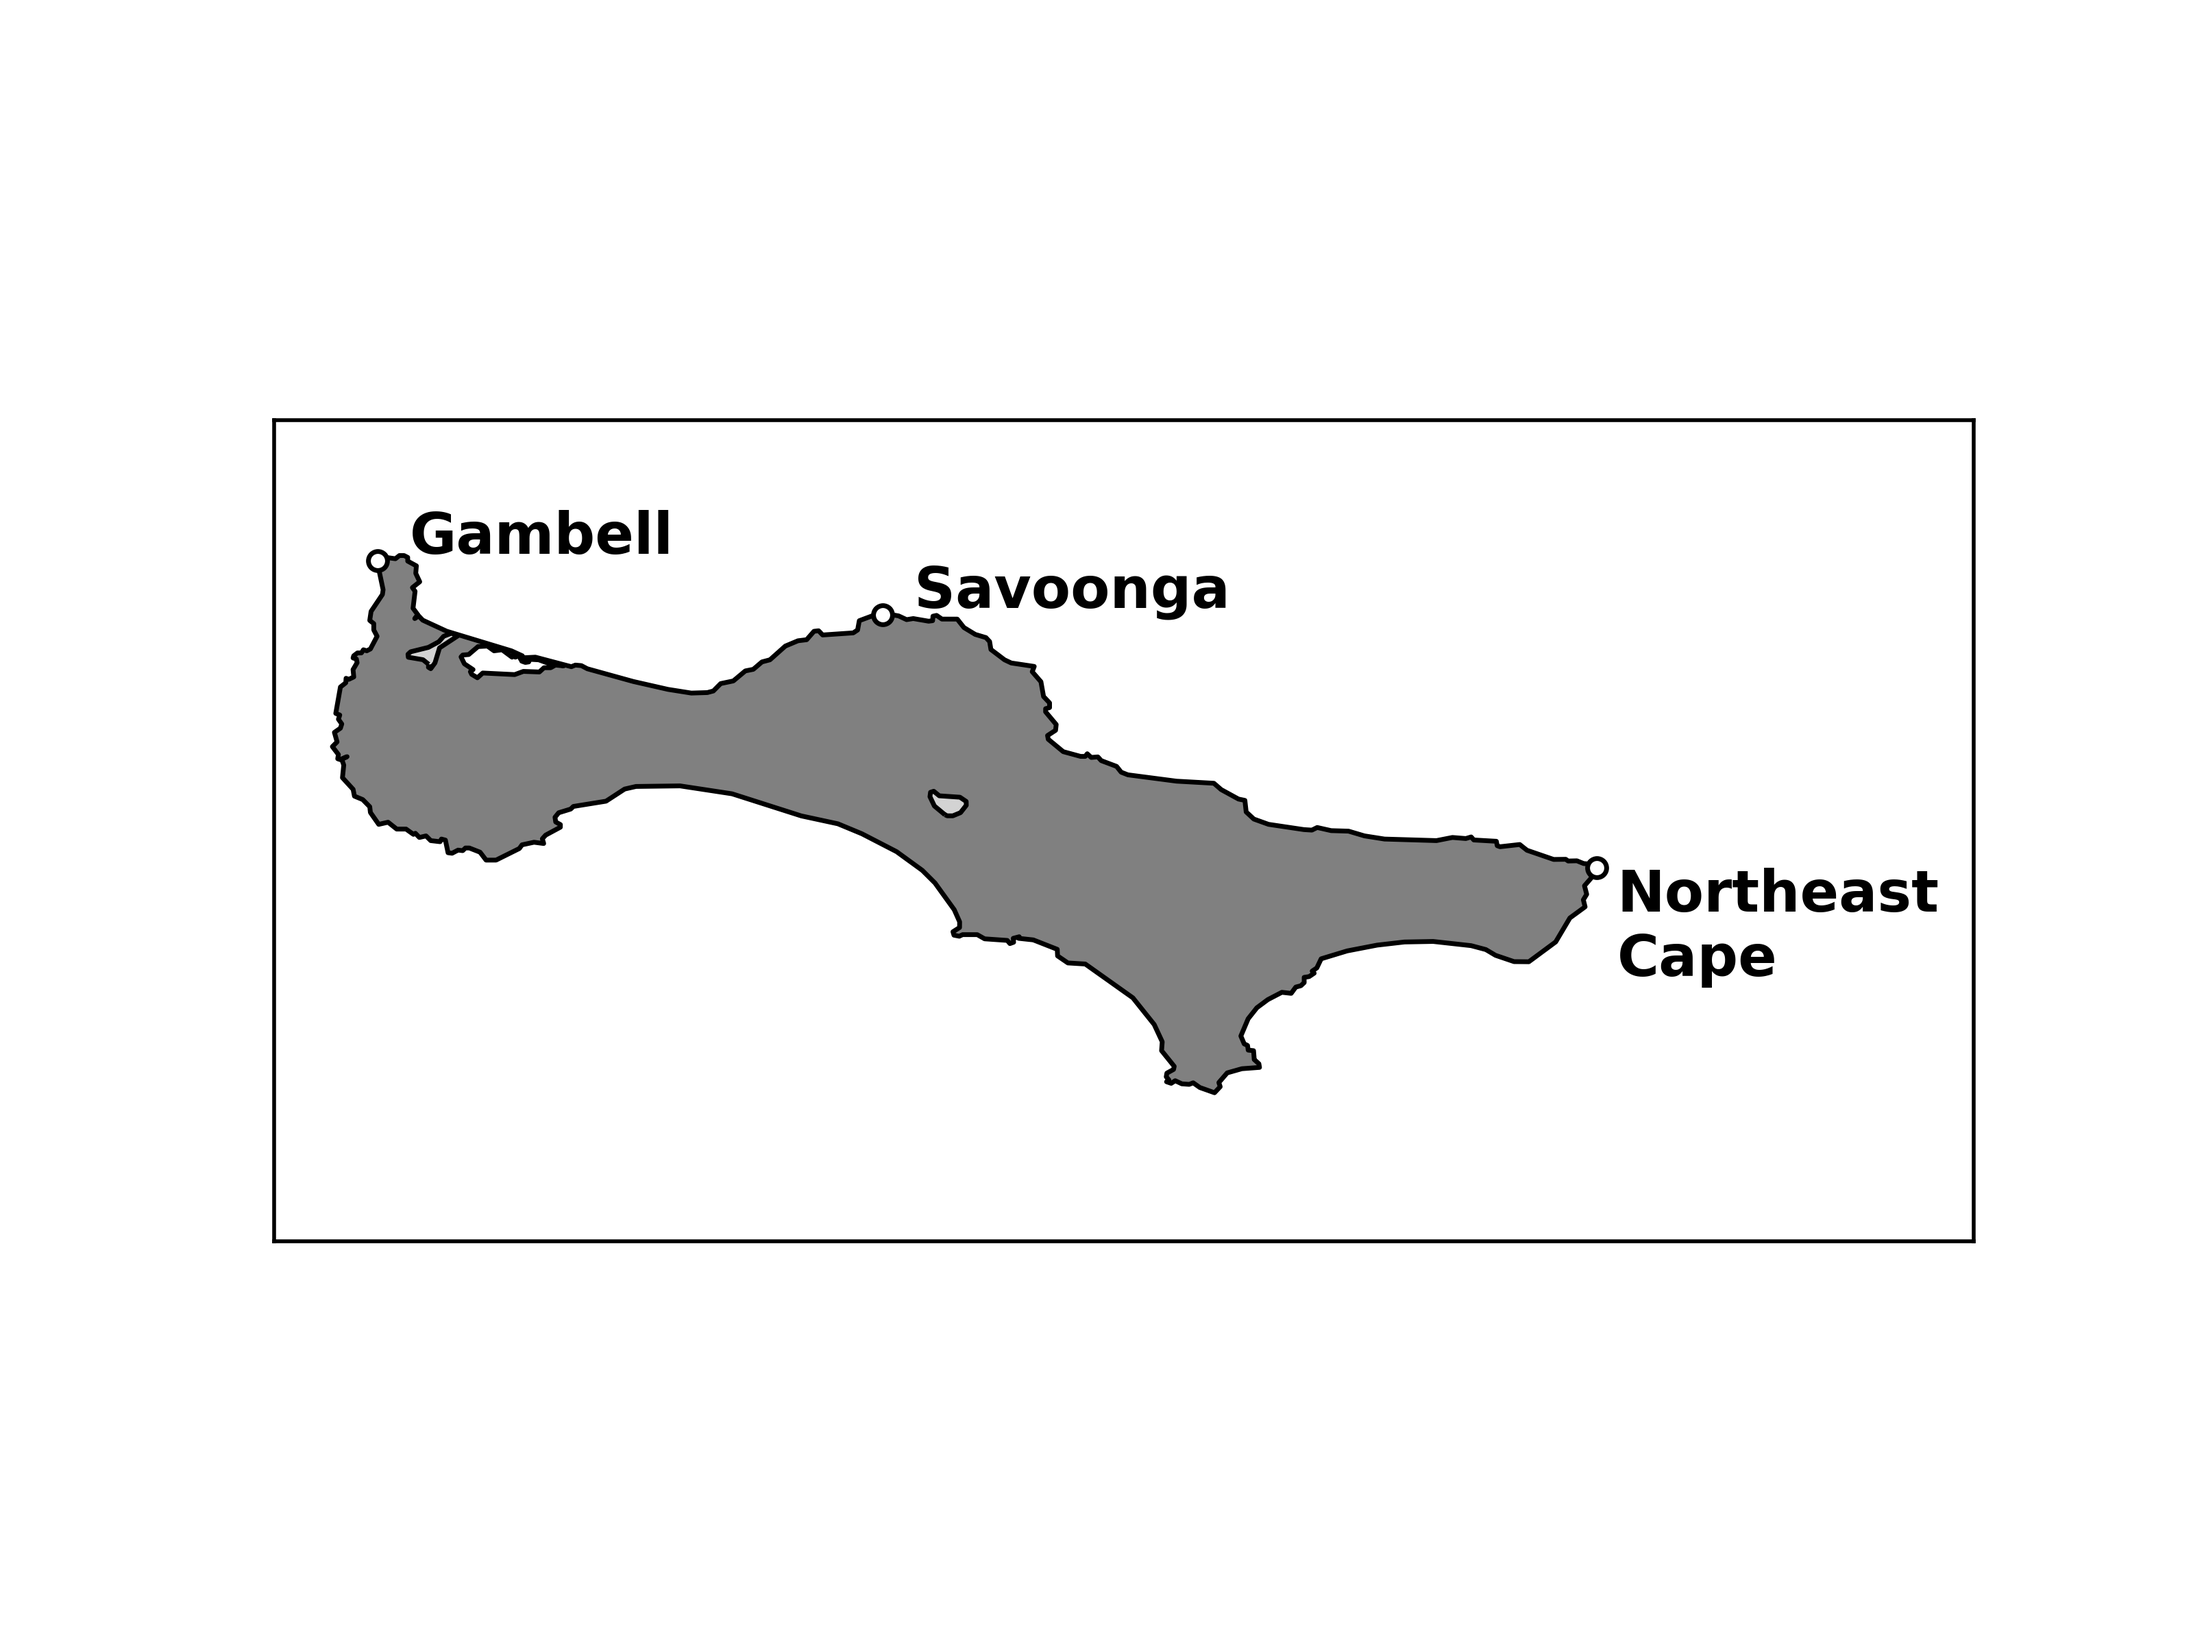
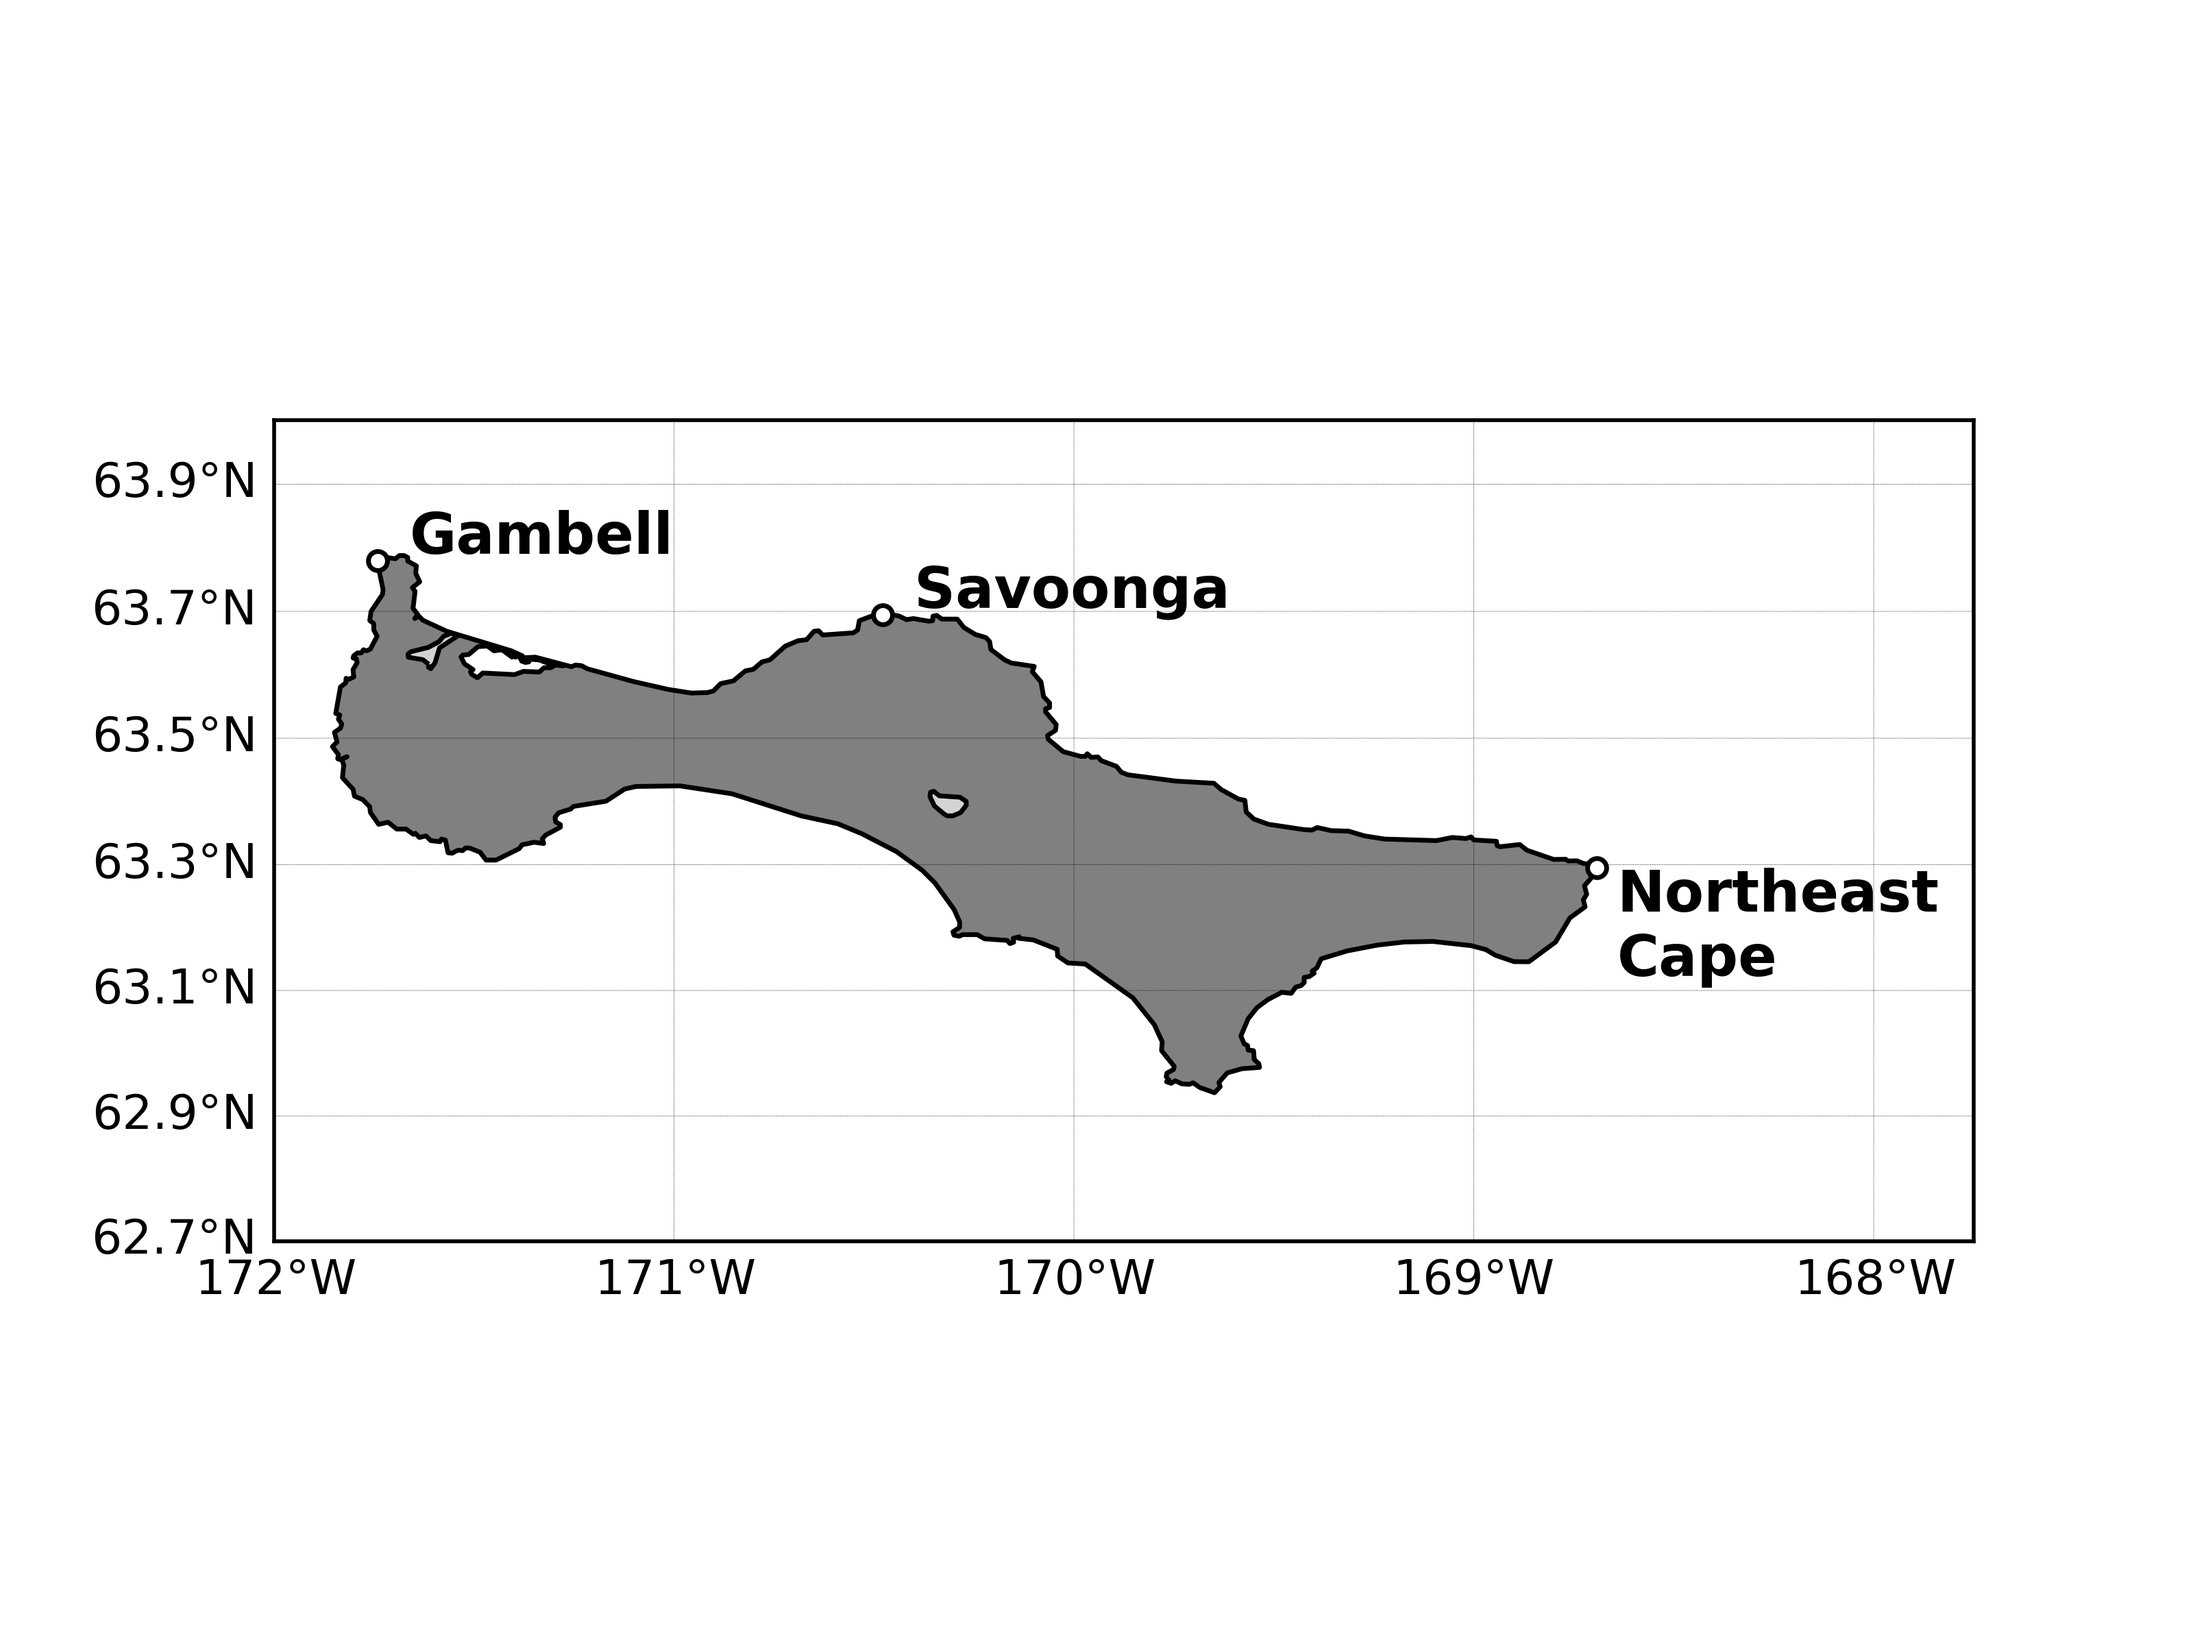
improved generalized script

diff --git a/generalized_map.py b/generalized_map.py
@@ -11,8 +11,27 @@ m=Basemap(llcrnrlon=-172, llcrnrlat=62.7, # corner 1
 
 # Continent in grey (change colors using hex codes if you want them to differ)
 m.fillcontinents(color='#808080', lake_color='#d3d3d3')
+# m.etopo(scale=3) # If you want color / topography, try this and comment out above line. 
+# In that case you may need to change the scale to increase resolution.  Just screw around
+# with it and see what works.
 m.drawcountries()
 m.drawrivers()
+
+# Add Latitude and Longitude Lines
+lat_start = 62.7 
+lat_end = 64 
+lat_spacing = 0.2
+
+lon_start = -172
+lon_end = -167.75
+lon_spacing = 1
+
+parallels = np.arange(lat_start, lat_end, lat_spacing) # Define the latitude range and interval
+meridians = np.arange(lon_start, lon_end, lon_spacing) # Define the longitude range and interval
+m.drawparallels(parallels, labels=[1,0,0,0], fontsize=10, linewidth=0.1) # Draw parallels (latitude lines). The labels list controls where the labels will be drawn
+m.drawmeridians(meridians, labels=[0,0,0,1], fontsize=10, linewidth=0.1) # Draw meridians (longitude lines). The labels list controls where the labels will be drawn
+
+
 
 # Show the coast lines in black
 m.drawcoastlines(color='black', linewidth=1)
